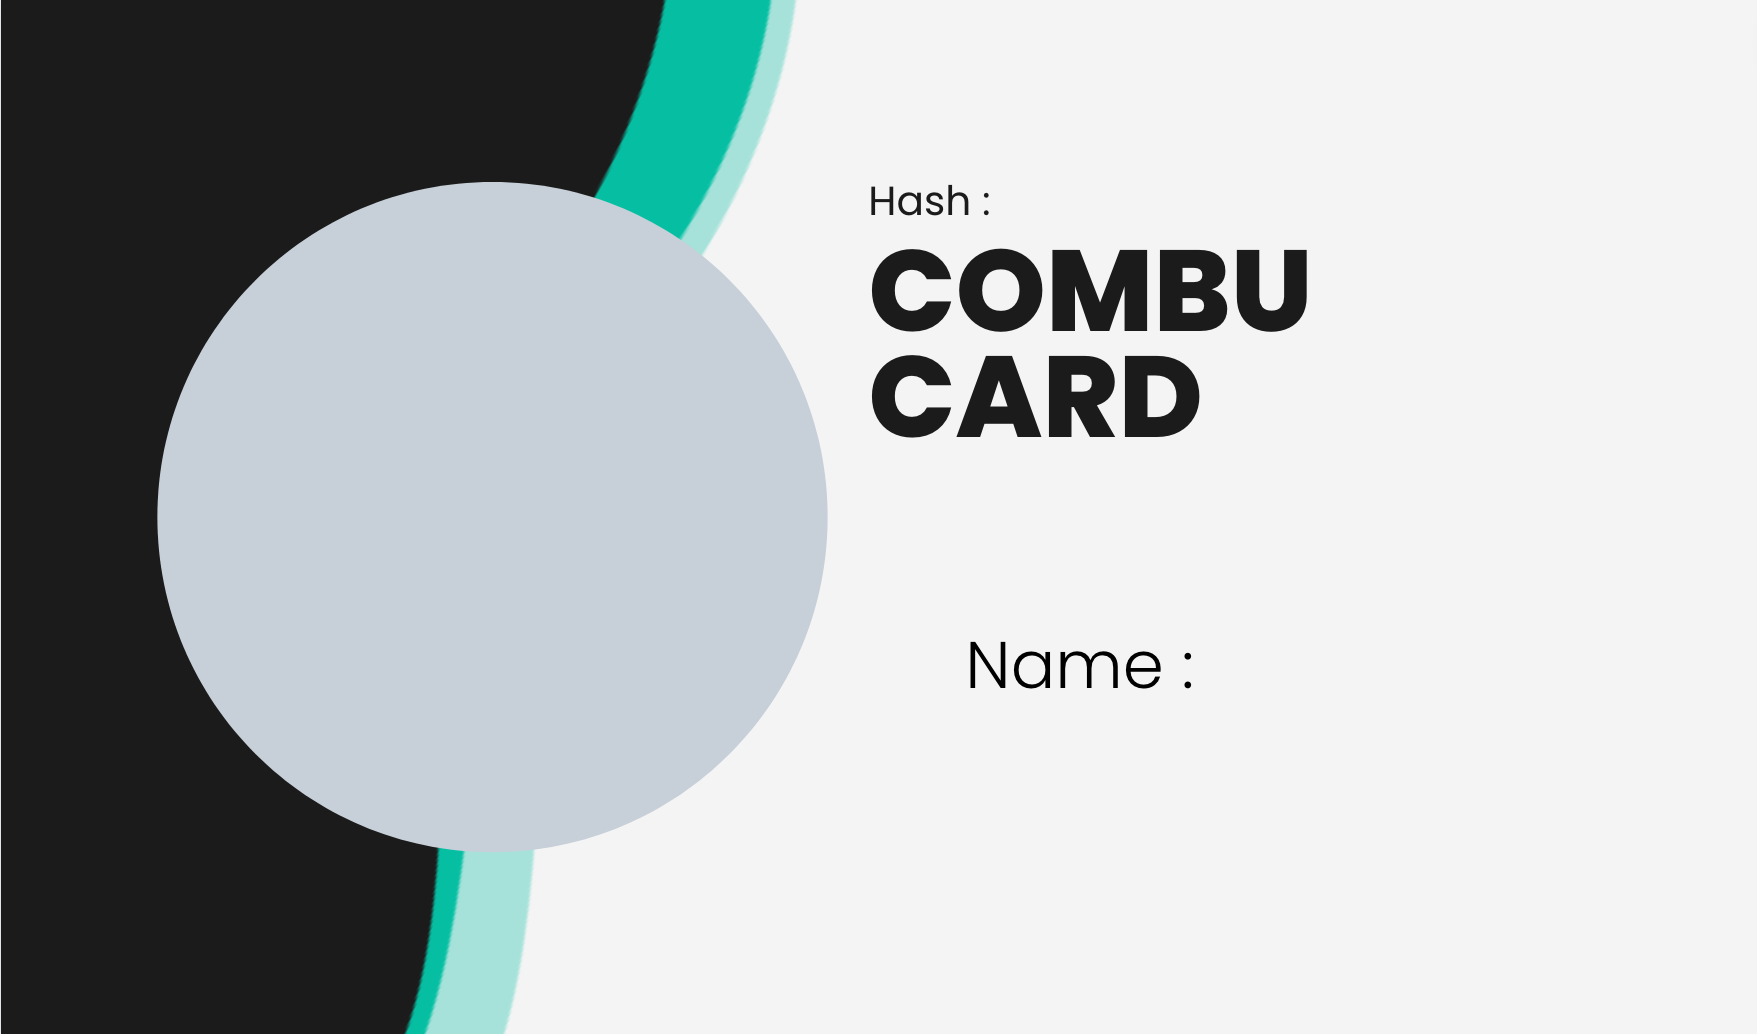
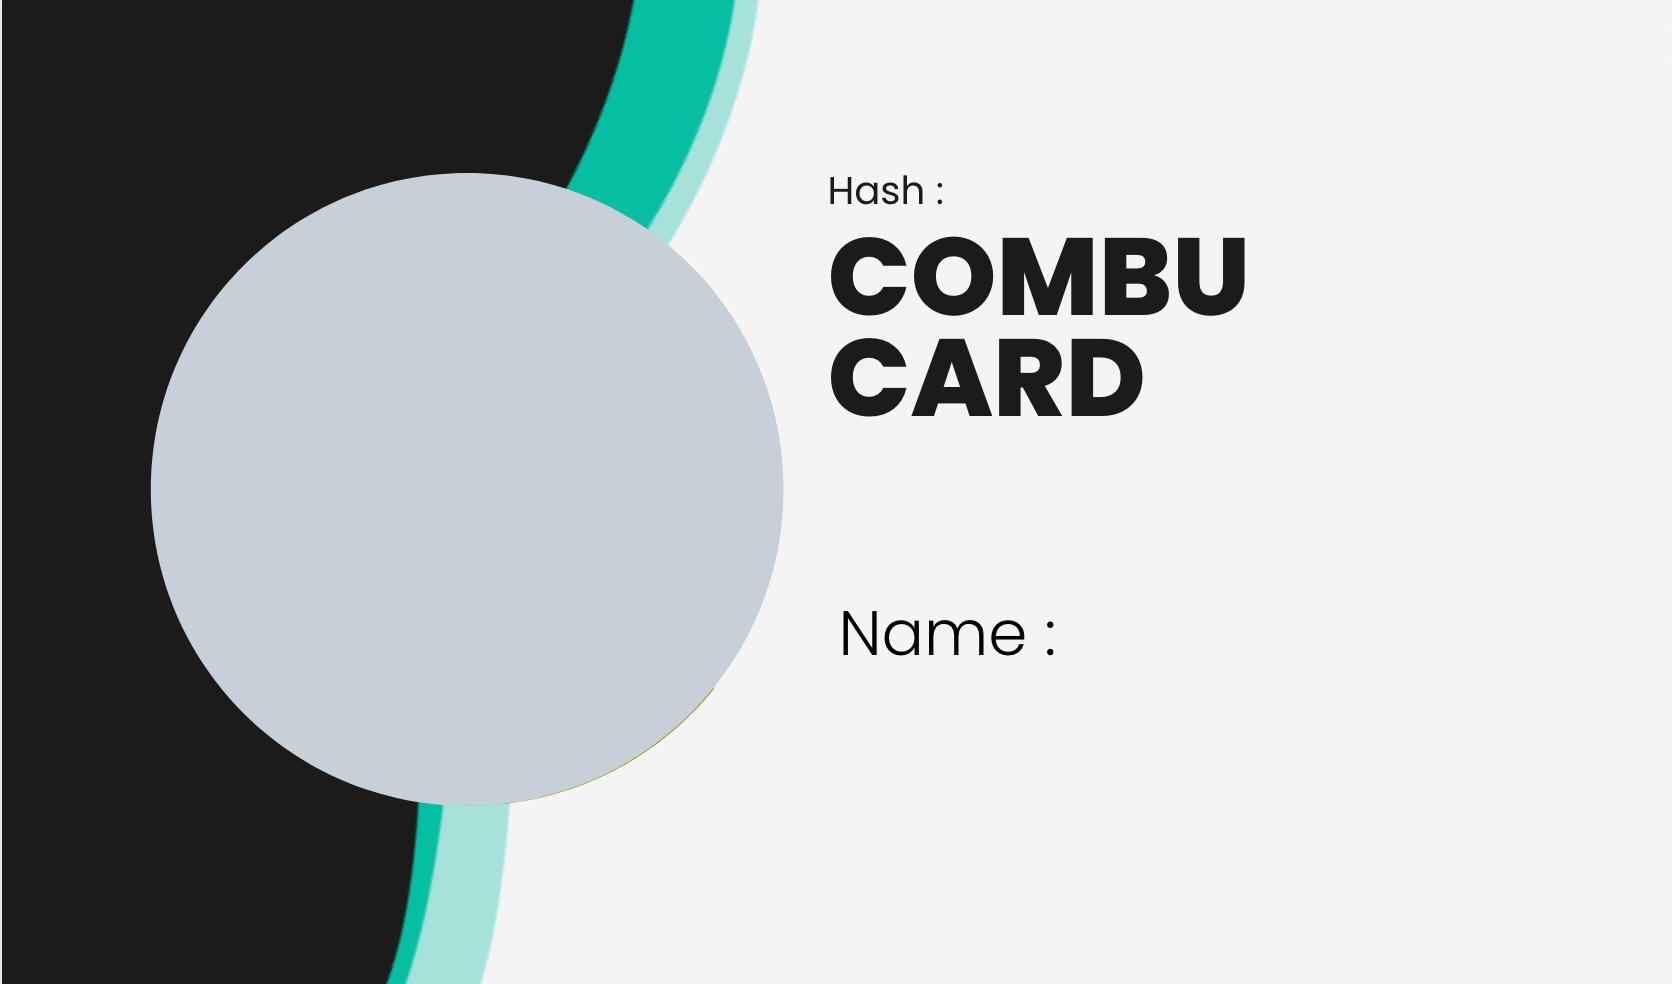
not found page add

diff --git a/public/assets/js/generator.js b/public/assets/js/generator.js
@@ -1,9 +1,11 @@
 window.onload = function() {
     var card_hash = document.getElementById("user_hash");
+    var card_hash_hidden = document.getElementById("user_hash_hidden");
     var user_name = document.getElementById("user_name");
     var name_input = document.getElementById("input_name");
     let name_hash = CybozuLabs.MD5.calc(name_input.value, CybozuLabs.MD5.BY_UTF16);
     card_hash.textContent = name_hash;
+    card_hash_hidden.value = name_hash;
     user_name.textContent = name_input.value;
     get();
 }
@@ -14,9 +16,11 @@ window.addEventListener('DOMContentLoaded', function(){
     var pattern = /^[A-Za-z0-9]{1}[A-Za-z0-9_.-]*@{1}[A-Za-z0-9_.-]+.[A-Za-z0-9]+$/;
     input_name.addEventListener("input",function(){
         var card_hash = document.getElementById("user_hash");
+        var card_hash_hidden = document.getElementById("user_hash_hidden");
         var user_name=document.getElementById("user_name");
         let name_hash = CybozuLabs.MD5.calc(this.value, CybozuLabs.MD5.BY_UTF16);
         card_hash.textContent = name_hash;
+        card_hash_hidden.value = name_hash;
         user_name.textContent = this.value;
         get();
     });

diff --git a/public/assets/css/show_status.css b/public/assets/css/show_status.css
@@ -1,0 +1,18 @@
+h1,p{
+    text-align: center;
+}
+p{
+    font-size: 5px;
+}
+#intro_content{
+    width: 305px;
+    margin: auto;
+}
+.home{
+    display: block;
+    width: 100px;
+    margin: 10px auto;
+    padding: 10px;
+    background-color: #f2f2f2;
+    text-decoration: none;
+}

diff --git a/public/assets/css/lssue.css b/public/assets/css/lssue.css
@@ -42,7 +42,7 @@ body{
     width: 140px;
     position: absolute;
     top: 308px;
-    left: 342px;
+    left: 320px;
 }
 #dk-identicon{
     position: absolute;

diff --git a/public/assets/css/generator_responsive.css b/public/assets/css/generator_responsive.css
@@ -28,7 +28,7 @@
     }
     #user_name{
         top: 350px;
-        left: 320px;
+        left: 300px;
     }
     #dk-identicon{
         top: 278px;

diff --git a/app.rb b/app.rb
@@ -24,10 +24,10 @@ post '/send' do
   redirect '/send_verification/' + params[:user_hash].to_s()
 end
 
-get '/admin' do
-  @cards = Card.all
-  erb :admin
-end
+# get '/admin' do
+#   @cards = Card.all
+#   erb :admin
+# end
 
 get "/send_verification/:hash" do
   @card = Card.where(md5: params[:hash]).first
@@ -54,9 +54,13 @@ get '/auth/:md5/:password' do
   @card = Card.where(md5: params[:md5]).first
   if @card.password == params[:password]
     @card.update(status: "認証済")
-    @card.update(authc: true)
     @cards = Card.where(md5: params[:md5]).first
-    erb :show_status
+    if @cards.authc!=true
+      @card.update(authc: true)
+      erb :show_status
+    else
+      "無効なurlです"
+    end
   else
     "無効なurlです"
   end
